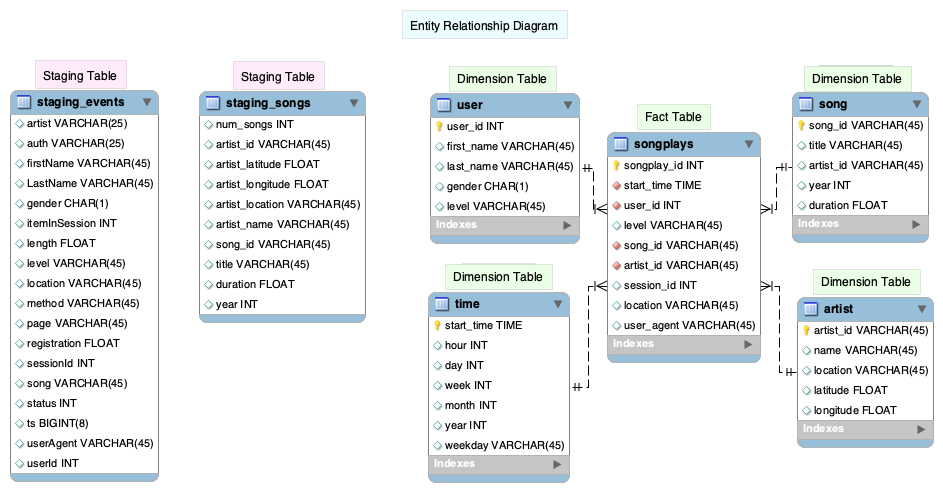
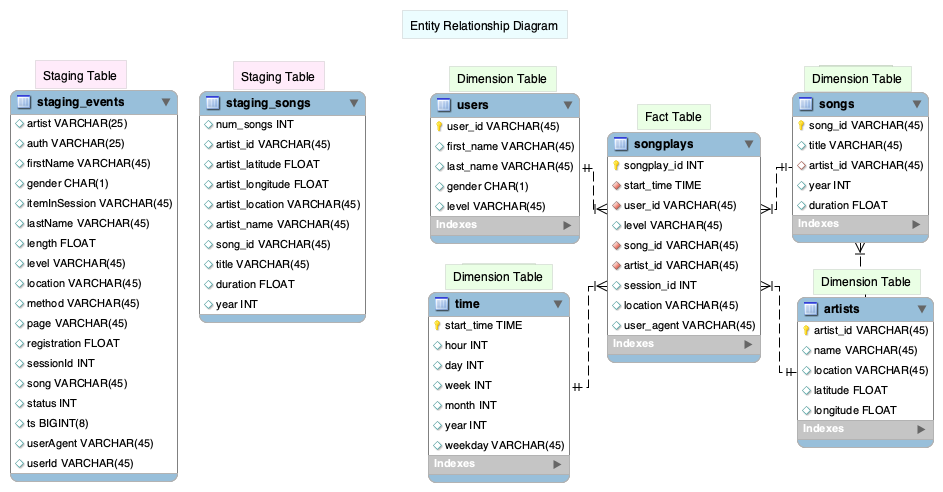
modified queries, added sort key on all dimension tables, add doc string, fixed ERD relationship

diff --git a/sql_queries.py b/sql_queries.py
@@ -97,7 +97,7 @@ user_table_create = ("""
 
     CREATE TABLE IF NOT EXISTS users (
 
-        user_id      VARCHAR,
+        user_id      VARCHAR      sortkey,
         first_name   VARCHAR,
         last_name    VARCHAR,
         gender       CHAR,
@@ -112,9 +112,9 @@ song_table_create = ("""
 
     CREATE TABLE IF NOT EXISTS songs (
 
-        song_id     VARCHAR,
+        song_id     VARCHAR         sortkey,
         title       VARCHAR,
-        artist_id   VARCHAR         REFERENCES artists (artist_id),
+        artist_id   VARCHAR         NOT NULL REFERENCES artists (artist_id),
         year        INT,
         duration    FLOAT,
         PRIMARY KEY (song_id)
@@ -126,7 +126,7 @@ artist_table_create = ("""
 
     CREATE TABLE IF NOT EXISTS artists (
 
-        artist_id   VARCHAR,
+        artist_id   VARCHAR         sortkey,
         name        VARCHAR,
         location    VARCHAR,
         latitude    FLOAT,
@@ -141,7 +141,7 @@ time_table_create = ("""
 
     CREATE TABLE IF NOT EXISTS time (
 
-        start_time TIME,
+        start_time TIME             sortkey,
         hour       INT,
         day        INT,
         week       INT,
@@ -194,7 +194,7 @@ songplay_table_insert = ("""
     SELECT (TIMESTAMP 'epoch' + ts/1000 * INTERVAL '1 second') AS start_time, userId as user_id, level, song_id, artist_id, sessionId as session_id, location, userAgent as user_agent
     FROM staging_events se
     JOIN staging_songs ss ON se.artist = ss.artist_name and se.length = ss.duration and se.song = ss.title
-    GROUP BY ts, userId, level, song_id, artist_id, sessionId, location, userAgent
+    GROUP BY start_time, userId, level, song_id, artist_id, sessionId, location, userAgent
 
 """)
 
@@ -209,6 +209,7 @@ user_table_insert = ("""
     )
     SELECT userId, firstName, lastName, gender, level
     FROM staging_events
+    GROUP BY userId, firstName, lastName, gender, level
 """)
 
 song_table_insert = ("""
@@ -222,6 +223,7 @@ song_table_insert = ("""
     )
     SELECT song_id, title, artist_id, year, duration
     FROM staging_songs
+    GROUP BY song_id, title, artist_id, year, duration 
 """)
 
 artist_table_insert = ("""
@@ -234,6 +236,7 @@ artist_table_insert = ("""
     )
     SELECT artist_id, artist_name, artist_location, artist_latitude, artist_longitude
     FROM staging_songs
+    GROUP BY artist_id, artist_name, artist_location, artist_latitude, artist_longitude
 
 """)
 
@@ -259,16 +262,18 @@ time_table_insert = ("""
     
         SELECT TIMESTAMP 'epoch' + ts/1000 * INTERVAL '1 second' AS start_time 
         FROM staging_events
+        GROUP BY ts
         
     )AS a
-    
+    GROUP BY start_time, hour, day, week, month, year, weekday
 """)
 
 # QUERY LISTS
 
 create_table_queries = [staging_events_table_create, staging_songs_table_create, time_table_create, user_table_create, artist_table_create, song_table_create, songplay_table_create]
 
-drop_table_queries = [staging_events_table_drop, staging_songs_table_drop, songplay_table_drop, user_table_drop, song_table_drop, artist_table_drop, time_table_drop]
+# Drop table order: when table has foreign key drop child table first then parent table. That means the following order 
+drop_table_queries = [staging_events_table_drop, staging_songs_table_drop, user_table_drop, song_table_drop, artist_table_drop, time_table_drop, songplay_table_drop]
 
 copy_table_queries = [staging_events_copy, staging_songs_copy]
 

diff --git a/etl.py b/etl.py
@@ -4,12 +4,30 @@ from sql_queries import copy_table_queries, insert_table_queries
 
 
 def load_staging_tables(cur, conn):
+    """
+    Load data from S3 storage to Redshift staging tables: staging_events, staging_songs
+    
+    Parameters: 
+        cur (class cursor): to run query on a database connection
+        conn (class connection): connection to PostgreSQL database instance
+        
+    Returns: nothing
+    """
     for query in copy_table_queries:
         cur.execute(query)
         conn.commit()
 
 
 def insert_tables(cur, conn):
+    """
+    Load data from staging tables (staging_events and staging_songs) to star schema (songs, artists, users, time and songplays)
+    
+    Parameters: 
+        cur (class cursor): to run query on a database connection
+        conn (class connection): connection to PostgreSQL database instance
+        
+    Returns: nothing
+    """
     for query in insert_table_queries:
         cur.execute(query)
         conn.commit()

diff --git a/create_tables.py b/create_tables.py
@@ -4,12 +4,30 @@ from sql_queries import create_table_queries, drop_table_queries
 
 
 def drop_tables(cur, conn):
+    """
+    Drop all tables: staging and star schema tables
+    
+    Parameters: 
+        cur (class cursor): to run query on a database connection
+        conn (class connection): connection to PostgreSQL database instance
+        
+    Returns: nothing
+    """
     for query in drop_table_queries:
         cur.execute(query)
         conn.commit()
 
 
 def create_tables(cur, conn):
+    """
+    Create all tables: staging and star schema tables
+    
+    Parameters: 
+        cur (class cursor): to run query on a database connection
+        conn (class connection): connection to PostgreSQL database instance
+        
+    Returns: nothing
+    """
     for query in create_table_queries:
         cur.execute(query)
         conn.commit()

diff --git a/README.md b/README.md
@@ -2,11 +2,11 @@
 
 ## Summary
 
-This project is a ETL process built for a music streamming company moving their growing data to cloud. The company finished loading their data to AWS S3 storage folder. This project will handle extracting data from file folders (a serial of JSON files) to a AWS Redshift cluster. In this process, we first designed new data warehouse structure with fact and demension tables to store tranformed data. Data was loaded to staging tables in raw and then transformed before loaded into target tables.
+This project is an ETL process built for a music streamming company moving data to cloud with efficient structure for analytics purposes. The company finished loading their data to AWS S3 storage folders. The project will handle extracting data from file folders (a serial of JSON files) and load into an AWS Redshift cluster. In this process, we first created staging tables to hold all the data copied from S3. Then we designed a new data warehouse structure with fact and demension tables to store original/tranformed data. 
 
 ## Data Source
 
-There are two types of data related to this project: Song Dataset and Log Dataset
+There are two types of data related to this project: 
 
 * **Song** Dataset: <br>
     A subset of real data from the [Million Song Dataset](http://millionsongdataset.com/). Each file is in JSON format and contains metadata about a song and the artist of that song. The files are partitioned by the first three letters of each song's track ID. For example, here are filepaths to two files in this dataset.
@@ -68,30 +68,44 @@ There are two types of data related to this project: Song Dataset and Log Datase
 
 ## Data Warehouse Table Design 
 
-We plan to create a database include staging tables without any keys and a star schema with fact and dimension tables and relationships in between.
+We plan to create a database include staging tables without any keys and a star schema with fact and dimension tables and relationships.
 
 * Redshift Cluster Database Entity Diagram: tables marked in different colors to differentiate staging tables from star schema tables.
 
  <img src="./image/ERD.png" width="1500">
 
 * Table Creation:
-    * sql_queries.py: includes all staging, dimension and fact tables' creation and records insert queries
-    * Distribution and Sort Key in fact and dimensions. 
-        * The distribution key was set on the songplays (Fact) table (song_id column). 
-        * The sort keys are set on each dimension table primary key for easy join. 
-        * In songplays table, sort key are composited by the 4 foreign keys.
+    * sql_queries.py: includes all table creation and loading script
+    * Distribution and Sort Keys are added in fact and dimension tables. 
+        * The distribution key is set in songplays (Fact) table (song_id column). 
+        * The sort keys are set as each dimension table's primary key for easy join. 
+        * In songplays table, sort key are composed of 4 foreign keys.
 
 ## ETL Process
-* Load data to staging tables: after table creation, we are ready to load data. Here we use COPY command load data from S3 file folder to staging tables.
-    * when loading data to staging tables, I got a few errors. The command line window only give you clue about an error happened and use the query tool on Redshift to query the details in stl_load_error system table.
+* Load data to staging tables: after table creation, we are ready to load data. Here we use COPY command loading data from S3 file folders to staging tables.
+    * when loading data to staging tables, I got a few errors using COPY command. In that case, the command line window only tells some error(s) happened and you will need use the query tool on Redshift webpage to query the error details in stl_load_error system table.
+    
+    Error message looks like:
+    
         Load into table 'staging_events' failed.  Check 'stl_load_errors' system table for details.
-        1 "Invalid digit, Value 'S', Pos 0, Type: Integer". This error got fixed by change the data type to VARCHAR
-        1 "Delimiter not found". This error was fixed by adding a parameter "JSON 'auto'"
-* Load data to star schema:
+        
+    The Two error I got: 
+    
+        1. "Invalid digit, Value 'S', Pos 0, Type: Integer". This error get fixed by change the related column data type to VARCHAR
+        1. "Delimiter not found". This error was fixed by adding a parameter "json 'auto'" at the end of Copy command.
+* Load data into star schema:
     Use sql queries
-    * User and Time tables: records are inserted from staging_events table.
-    * Song and Artist tables: data are inserted from staging_songs table.
+    * Users and Time tables: records are inserted from staging_events table.
+    * Songs and Artists tables: data are inserted from staging_songs table.
     * Songplays table: records are inserted by joining staging_events and staging_songs table.
+
+## Set up and running 
+
+1. Create [IAM role](https://console.aws.amazon.com/iam/home#/roles) for using redshift service and attach policy to get S3 read only permission. 
+1. Create [Redshift cluster](https://console.aws.amazon.com/redshift/) with PostgreSQL database.
+1. Fill in real information in dwh.cfg file, here a template file is provided.
+1. Run create_table.py
+1. Run etl.py
 
 
 
